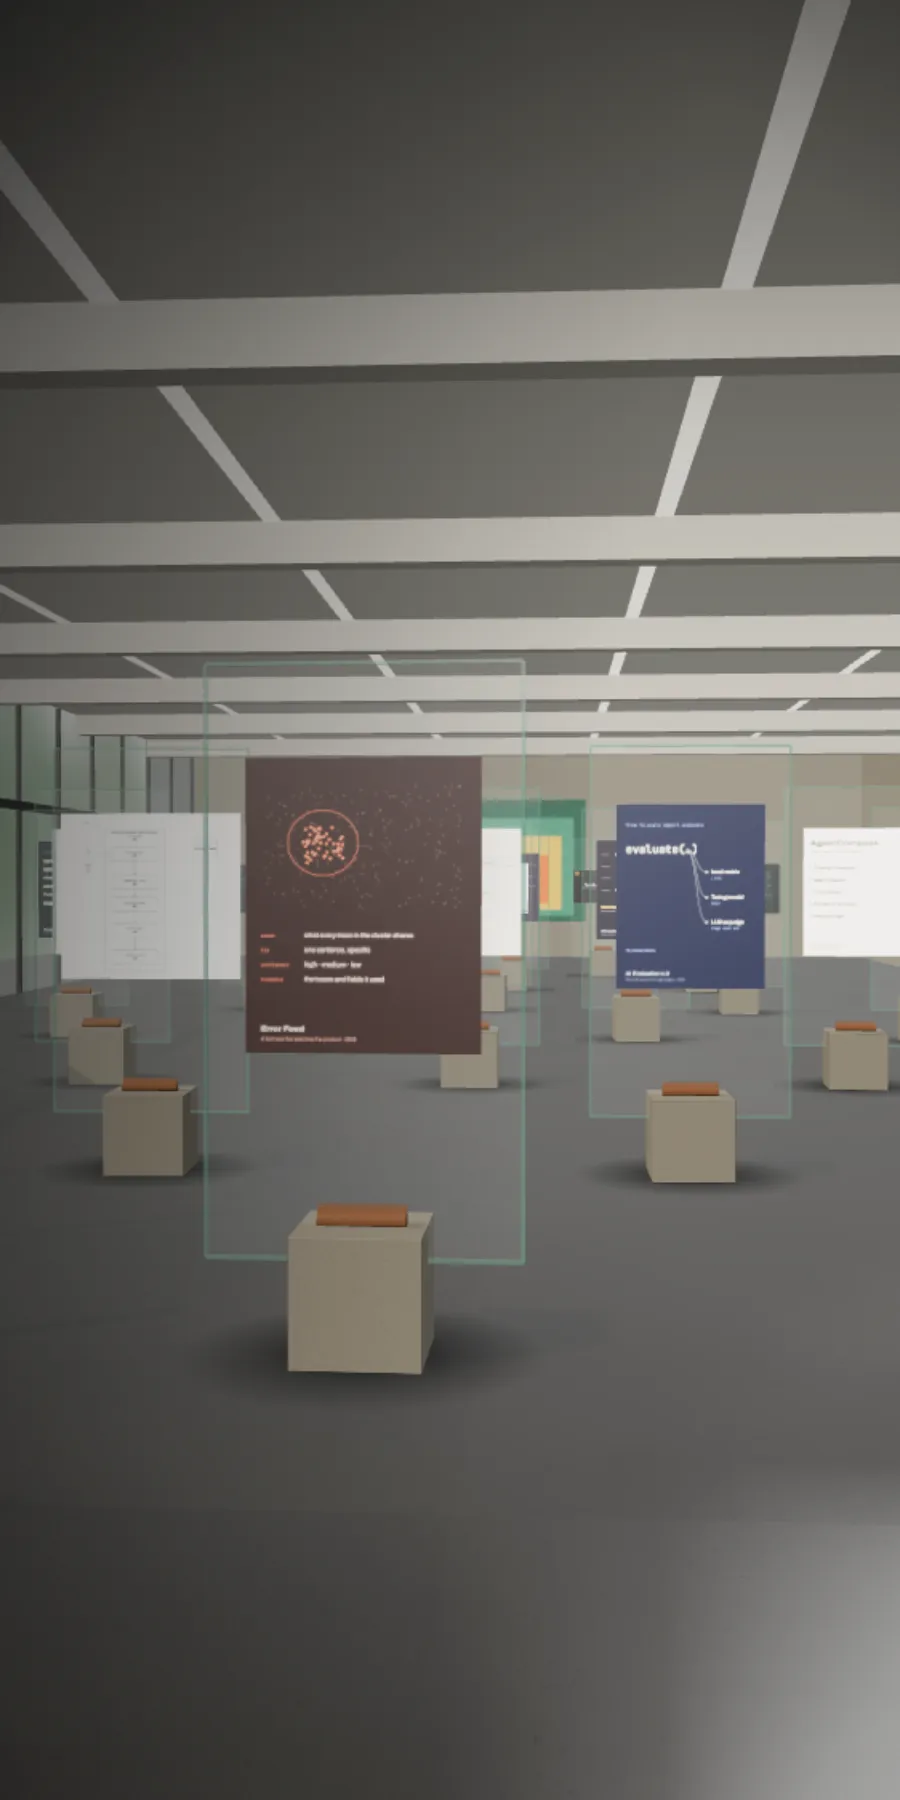
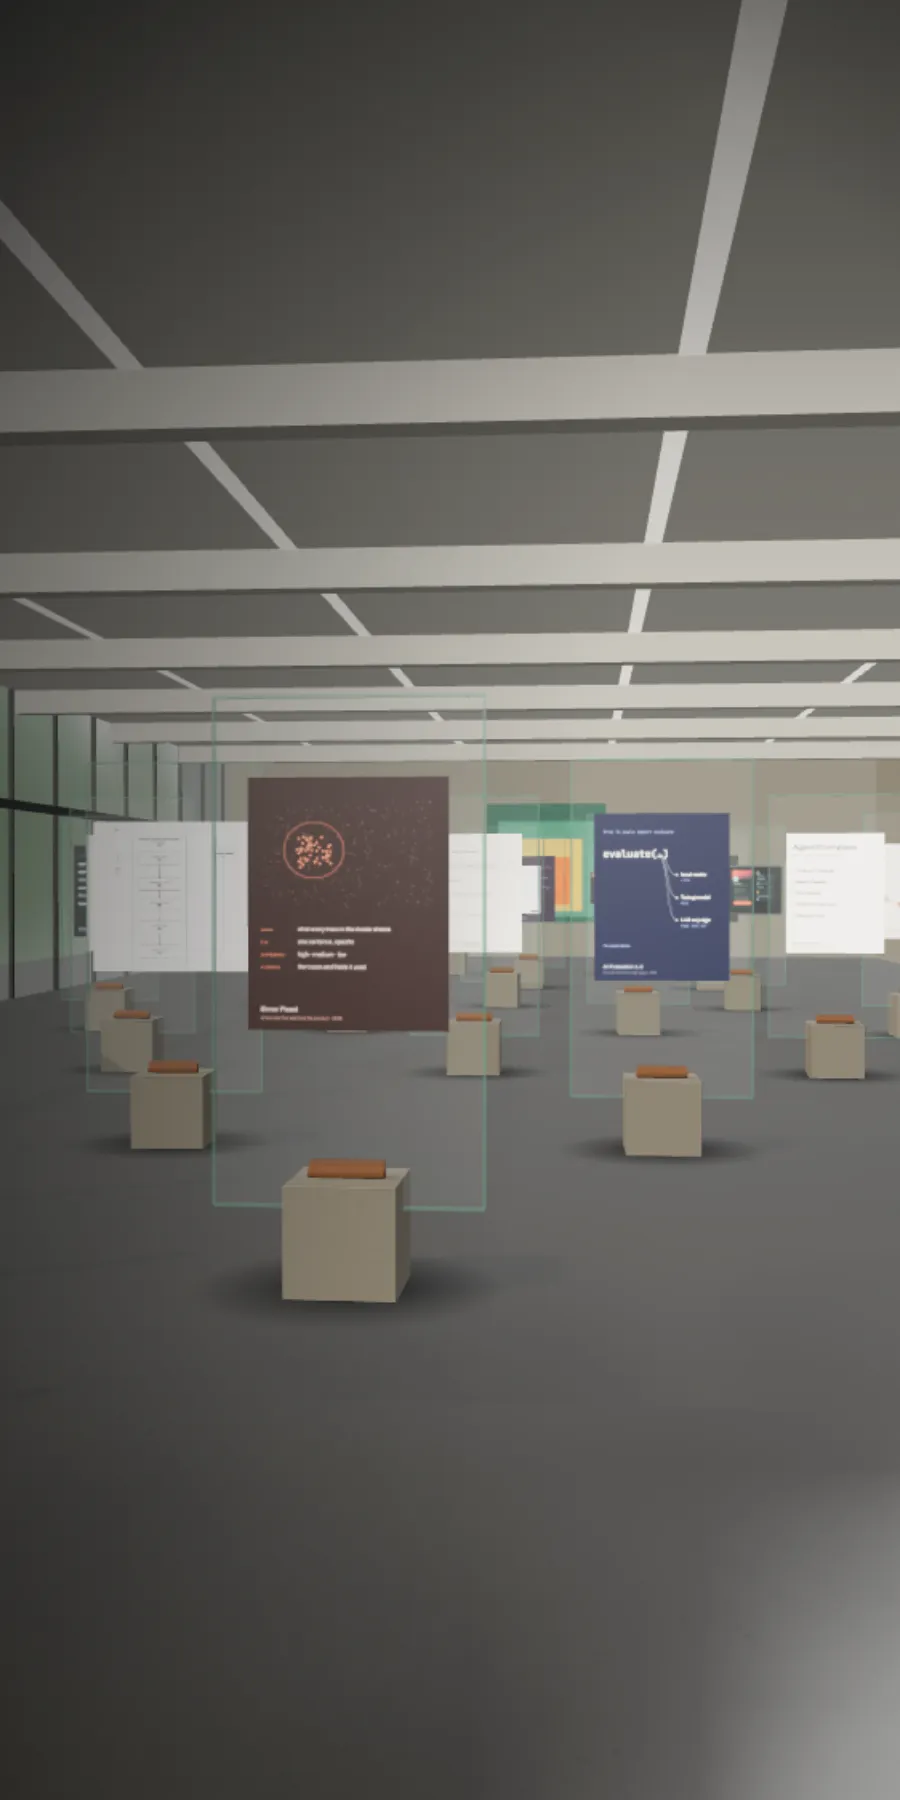
fix(hall): hand over from the poster without a jump
The poster was taken where the opening dolly ends, but the live room
started 1.8 m behind it: the view jumped back and widened, then crept
forward for 3.2 s. `ready` fired when the front row's files arrived, before
a frame had drawn them, so the plates flashed white, and the first plate
forced a recompile of the work material. The plan and hint popped in
before the camera stopped.

- ready fires from the loop, on the first frame with the front row drawn.
- Works start on a 1x1 white stand-in map: no recompile when plates land
  (programs linked at live = after, on desktop and phone).
- The room waits at START, where the poster is now taken (the brand
  script pauses motion, which holds the room there). After the 0.8 s
  crossfade it takes one step in: 0.9 m in 1.6 s, not 1.8 m in 3.2 s.
- The hint and the mini plan wait for the step (a new `opened` event),
  and visitors with motion paused stay at START.
- The poster is chosen by shape, not width: a 3x phone asked srcset for a
  1170 px image and got the wide poster, cropped. It's a <picture> on the
  engine's own phone threshold, with matching preloads.

Filmed at 4x CPU: the frame at live matches the poster on desktop and
phone; the room settles about 2.3 s after live.

diff --git a/site/components/hall/engine.ts b/site/components/hall/engine.ts
@@ -21,7 +21,10 @@ export type HallEvents = {
   arrive: (id: string | null) => void;
   turned: (id: string, back: boolean) => void;
   pose: (x: number, z: number, yaw: number) => void;
+  /** The first frame with the front row drawn is on screen: the poster can go. */
   ready: () => void;
+  /** The opening step into the room has ended, or was skipped. */
+  opened: () => void;
 };
 
 export type HallOptions = {
@@ -29,6 +32,8 @@ export type HallOptions = {
   years: string[];
   font: string;
   reduced: boolean;
+  /** Motion paused by the visitor: the room holds the opening view instead of stepping in. */
+  paused: boolean;
   mobile: boolean;
   quality: 'high' | 'low';
   start?: string;
@@ -461,6 +466,11 @@ export async function createHall(container: HTMLElement, o: HallOptions): Promis
   // Glass and daylight shouldn't take ambient occlusion; they're hidden while AO reads depth and normals.
   const glassMeshes: THREE.Object3D[] = [windowPane, sky];
   const blank = new THREE.Color(0xe9e6df);
+  // Works start on a 1×1 white stand-in, so their material is compiled with a map from the first
+  // frame and each plate swaps in without a recompile.
+  const standIn = keep(new THREE.DataTexture(new Uint8Array([255, 255, 255, 255]), 1, 1));
+  standIn.colorSpace = THREE.SRGBColorSpace;
+  standIn.needsUpdate = true;
   // Every easel's block, pane, edges, wedge and contact shadow are identical, so each part is one
   // instanced draw for the whole room. Only the work, its back and its label are per easel.
   const n = plan.placed.length;
@@ -508,7 +518,16 @@ export async function createHall(container: HTMLElement, o: HallOptions): Promis
       ah = aw / r,
       cy = 1.52;
     const artGeo = keep(new THREE.PlaneGeometry(aw, ah));
-    const artMat = keep(new THREE.MeshStandardMaterial({ color: blank, roughness: 0.55, emissive: 0xffffff, emissiveIntensity: 0.0 }));
+    const artMat = keep(
+      new THREE.MeshStandardMaterial({
+        color: blank,
+        map: standIn,
+        emissiveMap: standIn,
+        roughness: 0.55,
+        emissive: 0xffffff,
+        emissiveIntensity: 0.0,
+      }),
+    );
     const art = new THREE.Mesh(artGeo, artMat);
     art.position.set(0, cy, 0.009);
     art.castShadow = true;
@@ -606,6 +625,7 @@ export async function createHall(container: HTMLElement, o: HallOptions): Promis
   // Works load front row first; the room is usable before the back wall arrives.
   const loader = new THREE.TextureLoader();
   let alive = true,
+    frontIn = false,
     readyAt = 0;
   (async () => {
     for (let k = 0; k < o.rows.length && alive; k++) {
@@ -625,7 +645,6 @@ export async function createHall(container: HTMLElement, o: HallOptions): Promis
                     ez.artMat.map = ez.artMat.emissiveMap = t;
                     ez.artMat.color.set(0xffffff);
                     ez.artMat.emissiveIntensity = 0.06;
-                    ez.artMat.needsUpdate = true;
                     dirty = true;
                     res();
                   },
@@ -636,8 +655,9 @@ export async function createHall(container: HTMLElement, o: HallOptions): Promis
           ),
       );
       if (k === 0) {
-        o.on.ready();
-        readyAt = performance.now();
+        // Ready waits for the next frame to draw them (loop), not just for the files.
+        frontIn = true;
+        dirty = true;
       }
     }
   })();
@@ -718,7 +738,7 @@ export async function createHall(container: HTMLElement, o: HallOptions): Promis
   // ——— camera choreography ———
   const cam: Pose = { pos: V(0, EYE, 6), look: V(0, 1.4, -8) };
   const ENTRY: Pose = o.mobile ? { pos: V(0.6, EYE, 5.4), look: V(-0.2, 1.45, -8) } : { pos: V(1.35, EYE, 5.1), look: V(-0.7, 1.42, -8) };
-  const START: Pose = { pos: ENTRY.pos.clone().add(V(0.55, 0, 1.8)), look: ENTRY.look.clone().add(V(-0.2, 0, -1)) };
+  const START: Pose = { pos: ENTRY.pos.clone().add(V(0.3, 0, 0.9)), look: ENTRY.look.clone().add(V(-0.1, 0, -0.5)) };
   const frontPose = (ez: Easel, dist = o.mobile ? 2.35 : 2.15): Pose => {
     const n = V(0, 0, 1).applyQuaternion(ez.group.quaternion);
     return {
@@ -763,10 +783,12 @@ export async function createHall(container: HTMLElement, o: HallOptions): Promis
   }
 
   let tween: Tween | null = null;
+  /** The opening step, while it runs. */
+  let opener: Tween | null = null;
   let at: Easel | null = null;
   let back = false;
   let hover: Easel | null = null;
-  let paused = o.reduced;
+  let paused = o.reduced || o.paused;
   /** Paused or reduced motion: every camera move becomes a cut. */
   const cut = () => paused || o.reduced;
   const byId = (id: string) => easels.find(ez => ez.e.id === id) ?? null;
@@ -775,6 +797,7 @@ export async function createHall(container: HTMLElement, o: HallOptions): Promis
     if (!tween) return;
     const t = tween;
     tween = null;
+    if (t === opener) settle();
     if (t.kind === 'turn') Object.assign(cam, turnPose(t.easel, t.dir > 0 ? 1 : 0));
     else Object.assign(cam, { pos: t.to.pos.clone(), look: t.to.look.clone() });
   }
@@ -1100,6 +1123,7 @@ export async function createHall(container: HTMLElement, o: HallOptions): Promis
         if (done.kind === 'walk') o.on.arrive(at?.e.id ?? null);
         if (done.kind === 'turn') o.on.turned(done.easel.e.id, done.dir > 0);
         if (done.kind === 'go') o.on.arrive(null);
+        if (done === opener) settle();
       }
     }
     const pos = cam.pos,
@@ -1176,6 +1200,7 @@ export async function createHall(container: HTMLElement, o: HallOptions): Promis
     place(now);
     if (composer) composer.render();
     else renderer.render(scene, camera);
+    if (frontIn && !readyAt) open(now);
     if (hover && !tween && !lift) report();
   }
 
@@ -1201,13 +1226,21 @@ export async function createHall(container: HTMLElement, o: HallOptions): Promis
   io.observe(container);
   resize();
 
-  // Opening: already lit, a 3.2 s dolly forward. Arriving at an easel (from a hash) skips it.
+  // Opening: the room waits at START, where the poster was taken. Once the front row is drawn the poster
+  // crossfades out (0.8 s, .poster in Hall.module.css), then the camera takes one step in. Arriving at
+  // an easel from a hash, or with motion paused, there's no step.
   const first = o.start ? byId(o.start) : null;
   if (first) ctl.select(first.e.id);
-  else if (o.reduced) Object.assign(cam, { pos: ENTRY.pos.clone(), look: ENTRY.look.clone() });
-  else {
-    Object.assign(cam, { pos: START.pos.clone(), look: START.look.clone() });
-    tween = { kind: 'go', t0: performance.now(), dur: 3.2, from: { pos: START.pos.clone(), look: START.look.clone() }, to: ENTRY };
+  else Object.assign(cam, { pos: START.pos.clone(), look: START.look.clone() });
+  function open(now: number) {
+    readyAt = now;
+    o.on.ready();
+    if (first || paused) return o.on.opened();
+    opener = tween = { kind: 'go', t0: now + 800, dur: 1.6, from: { pos: START.pos.clone(), look: START.look.clone() }, to: ENTRY };
+  }
+  function settle() {
+    opener = null;
+    o.on.opened();
   }
   raf = requestAnimationFrame(loop);
   return ctl;

diff --git a/site/components/hall/Hall.tsx b/site/components/hall/Hall.tsx
@@ -13,6 +13,9 @@ import s from './Hall.module.css';
 // The crane takes this much of the stage's scroll; the rest holds on the plan before the catalogue.
 const CRANE_END = 0.85;
 const clamp01 = (x: number) => Math.min(1, Math.max(0, x));
+// The stage is the viewport; below this shape the engine frames the room for a phone (its `mobile`),
+// so the poster switches with it. By shape, not width: a 3× phone would otherwise take the wide one.
+const TALL = '(max-aspect-ratio: 4/5)';
 
 type Props = { rows: Exhibit[][]; years: string[]; name: string; intro: string; proof: string };
 
@@ -35,10 +38,15 @@ export default function Hall({ rows, years, name, intro, proof }: Props) {
   const { reduced, paused, togglePaused } = useMotion();
   // The front row is what the room waits for before it goes live: fetch it with the page, not after the engine.
   rows[0]?.forEach(e => preload(e.image.src, { as: 'image' }));
+  preload('/media/hall/poster-tall.webp', { as: 'image', media: TALL, fetchPriority: 'high' });
+  preload('/media/hall/poster-wide.webp', { as: 'image', media: `not all and ${TALL}`, fetchPriority: 'high' });
   // Reduced motion, or a browser that couldn't run the engine: the still poster, no crane.
   const [failed, setFailed] = useState(false);
   const still = reduced || failed;
   const [live, setLive] = useState(false);
+  // The hint and the mini plan wait for the opening step to end.
+  const [opened, setOpened] = useState(false);
+  const isPaused = useEffectEvent(() => paused);
   const [at, setAt] = useState<string | null>(null);
   const [back, setBack] = useState(false);
   const [moving, setMoving] = useState(false);
@@ -78,11 +86,13 @@ export default function Hall({ rows, years, name, intro, proof }: Props) {
             years,
             font,
             reduced: false,
+            paused: isPaused(),
             mobile,
             quality: mobile || (navigator.hardwareConcurrency ?? 8) < 6 ? 'low' : 'high',
             start: exhibits.some(e => e.id === hash) ? hash : undefined,
             on: {
               ready: () => setLive(true),
+              opened: () => setOpened(true),
               hover: (id, x, y) => setTip(id ? { id, x, y } : null),
               roam: () => {
                 setRoaming(true);
@@ -236,14 +246,10 @@ export default function Hall({ rows, years, name, intro, proof }: Props) {
   return (
     <section ref={section} className={s.hall} aria-label="The hall" data-crane={!still || undefined}>
       <div ref={stage} className={s.stage} data-live={live || undefined}>
-        <img
-          className={s.poster}
-          src="/media/hall/poster-wide.webp"
-          srcSet="/media/hall/poster-tall.webp 900w, /media/hall/poster-wide.webp 1800w"
-          sizes="100vw"
-          alt=""
-          data-hidden={live || undefined}
-        />
+        <picture>
+          <source media={TALL} srcSet="/media/hall/poster-tall.webp" />
+          <img className={s.poster} src="/media/hall/poster-wide.webp" alt="" data-hidden={live || undefined} />
+        </picture>
         <div ref={gl} className={s.gl} />
         <div className={s.grade} aria-hidden />
 
@@ -257,7 +263,7 @@ export default function Hall({ rows, years, name, intro, proof }: Props) {
         </div>
 
         {!still && (
-          <div className={s.hint} {...off(!!current || !live || craned)}>
+          <div className={s.hint} {...off(!!current || !opened || craned)}>
             <p>
               <span className={s.forMouse}>
                 Drag to look around. Click the floor to walk there, or a work to go to it.
@@ -283,7 +289,7 @@ export default function Hall({ rows, years, name, intro, proof }: Props) {
           <button
             type="button"
             className={s.mini}
-            {...off(!live || !!current || craned)}
+            {...off(!opened || !!current || craned)}
             onClick={() => rise(true)}
             aria-label="Rise to the plan of the room"
           >
